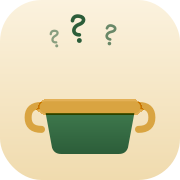
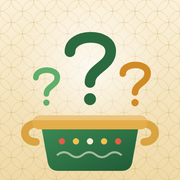
Icona dell'app ridisegnata: tre punti interrogativi colorati, pentola con fregio, arabesco (v189)
Claude-Session: https://claude.ai/code/session_01TknSCL2Vp1LoYUaQZ1ANF9

diff --git a/service-worker.js b/service-worker.js
@@ -9,7 +9,7 @@
  * l'app continua comunque a funzionare senza connessione.
  */
 
-const VERSIONE = 'checucino-v188';
+const VERSIONE = 'checucino-v189';
 
 const FILE = [
   './',
